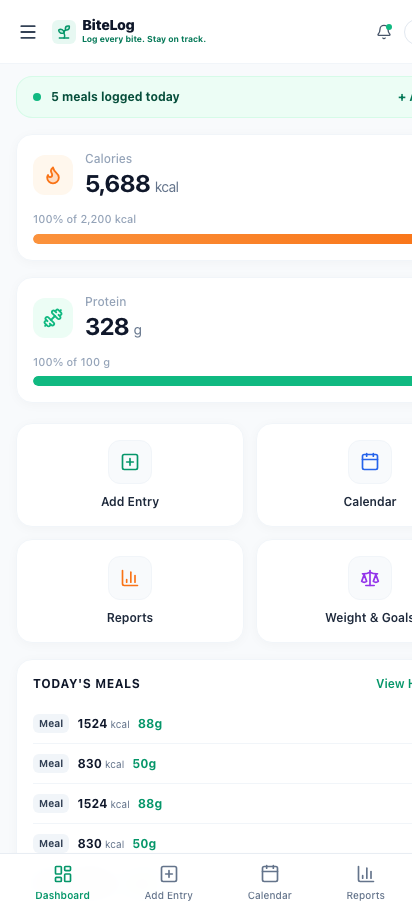
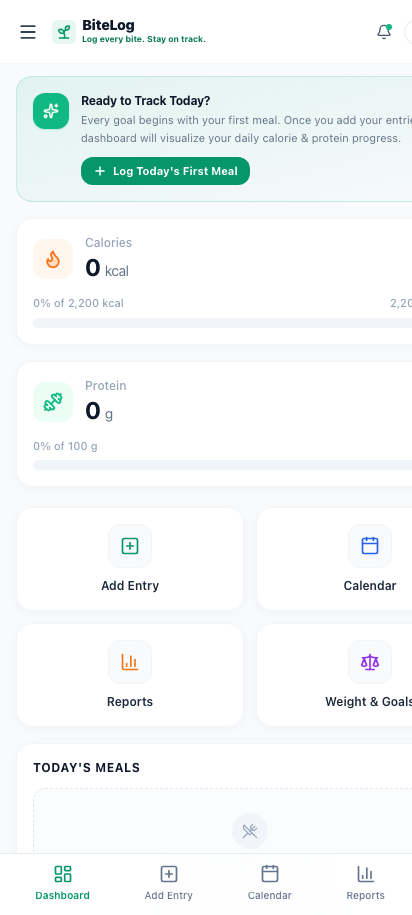
fix: completely remove fake 9:41 time, wifi, battery status bar

diff --git a/Frontend/src/components/MobileStatusBar.tsx b/Frontend/src/components/MobileStatusBar.tsx
@@ -1,34 +1,8 @@
 import React from 'react';
-import { Wifi, Battery } from 'lucide-react';
 
 export const MobileStatusBar: React.FC = () => {
-  return (
-    <div className="hidden sm:flex h-11 px-7 pt-2 items-center justify-between text-slate-900 select-none bg-white/80 backdrop-blur-md border-b border-slate-100/50 shrink-0">
-      {/* Left Time */}
-      <span className="text-[14px] font-bold tracking-tight">9:41</span>
-
-      {/* Center Dynamic Island pill */}
-      <div className="w-24 h-4 bg-slate-900 rounded-full mx-auto"></div>
-
-      {/* Right Icons: Cellular, Wifi, Battery */}
-      <div className="flex items-center gap-1.5 text-slate-800">
-        {/* Cellular Signal (4 bars) */}
-        <div className="flex items-end gap-0.5 h-3">
-          <div className="w-0.5 h-1 bg-slate-800 rounded-xs"></div>
-          <div className="w-0.5 h-1.5 bg-slate-800 rounded-xs"></div>
-          <div className="w-0.5 h-2.5 bg-slate-800 rounded-xs"></div>
-          <div className="w-0.5 h-3 bg-slate-800 rounded-xs"></div>
-        </div>
-
-        {/* Wifi */}
-        <Wifi className="w-3.5 h-3.5 stroke-[2.5]" />
-
-        {/* Battery Icon with inner level */}
-        <div className="w-5 h-2.5 border border-slate-800 rounded-xs p-0.5 flex items-center">
-          <div className="w-3 h-1.5 bg-slate-800 rounded-2xs"></div>
-        </div>
-      </div>
-    </div>
-  );
+  // Completely removed fake status bar (time 9:41, wifi, battery, and dynamic island)
+  // so the device's native system bar renders cleanly without duplication or artificial overlays.
+  return null;
 };
 

diff --git a/Frontend/src/App.tsx b/Frontend/src/App.tsx
@@ -31,10 +31,7 @@ export const App: React.FC = () => {
       {/* Background canvas styling: on mobile fills 100% screen edge-to-edge; on desktop centers a phone frame */}
       <div className="w-full h-[100dvh] min-h-screen bg-[#f8fafc] sm:bg-slate-100 flex items-center justify-center sm:p-4 overflow-hidden">
         {/* ================= RESPONSIVE MOBILE APP VIEWPORT ================= */}
-        <div className="w-full h-full sm:h-[92vh] sm:max-w-[440px] bg-[#f8fafc] sm:rounded-[40px] sm:shadow-[0_25px_70px_rgba(0,0,0,0.18)] sm:border-[8px] sm:border-slate-900 flex flex-col relative overflow-hidden">
-          {/* Top Mobile Status Bar (Rendered only on desktop preview, hidden on native mobile/Android) */}
-          <MobileStatusBar />
-
+        <div className="w-full h-full sm:h-[92vh] sm:max-w-[440px] bg-[#f8fafc] sm:rounded-3xl sm:shadow-xl sm:border border-slate-200/80 flex flex-col relative overflow-hidden">
           {/* Top Mobile App Header */}
           <MobileTopHeader onOpenMenu={() => setMoreDrawerOpen(true)} />
 
